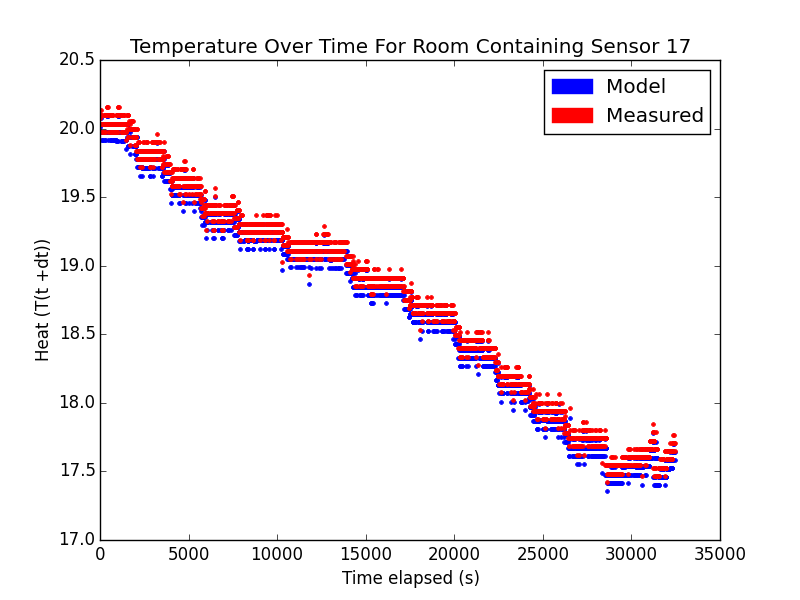
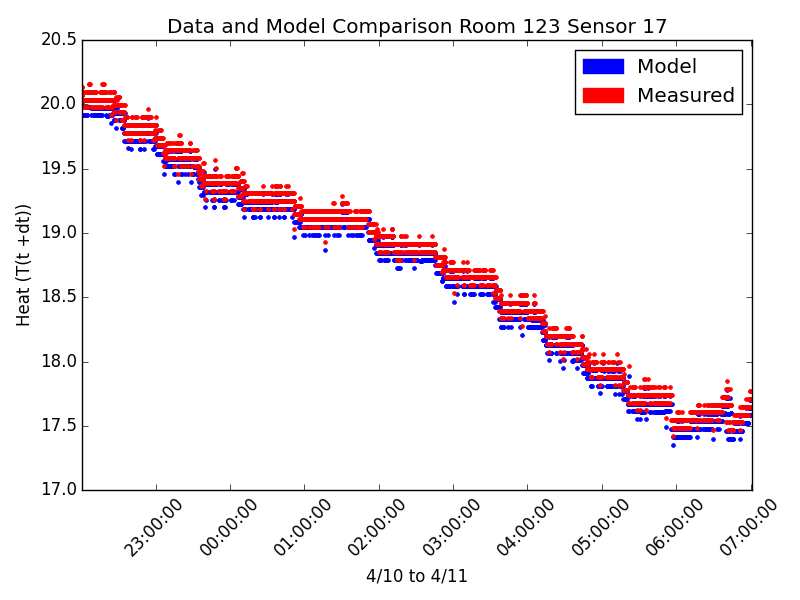
Plot displays proper time interval

Changed region(s): [[0.0, 0.03, 0.9688, 0.99]]

diff --git a/output.py b/output.py
@@ -5,6 +5,27 @@
 from matplotlib import pyplot as p
 from matplotlib import patches
 from model import get_b_tau
+import datetime
+rooms ={}
+rooms['1'] = '211'
+rooms['2'] = '222'
+rooms['12'] = '216'
+rooms['15'] = '222'
+rooms['18'] = '203'
+rooms['6'] = '212'
+rooms['4']  = '162'
+rooms['8'] = '162'
+rooms['13'] = '146'
+rooms['16'] = '176'
+rooms['10'] = '164'
+rooms['19'] = '170'
+rooms['9'] = '141'
+rooms['3'] = '137A'
+rooms['14'] = '137'
+rooms['5'] = '132'
+rooms['11'] = '121'
+rooms['7'] = '125'
+rooms['17'] = '123'
 
 
 def print_tau(room_num, tau):
@@ -31,7 +52,7 @@ def print_b_tau(rooms):
     print 'Building  | Tau: %d' % (get_b_tau(rooms))
 
 
-def plot_model(room_num, time, calculated, actual):
+def plot_model(room_num, time, calculated, actual, start, end):
     """
     plots heat vs time for both the actual data, as well as the calculated heat from our model and saves it to
     file name plot<room_num>.png
@@ -40,13 +61,16 @@ def plot_model(room_num, time, calculated, actual):
     :param actual: list of actual heat values
     :return:
     """
+    sens_num = rooms[str(room_num)]
     p.cla()
     p.plot(time, calculated, 'b.')
     p.plot(time, actual, 'r.')
     model = patches.Patch(color='blue', label='Model')
     measured = patches.Patch(color='red', label='Measured')
     p.legend([model, measured], ['Model', 'Measured'])
-    p.xlabel('Time elapsed (s)')
+    p.xticks(rotation=45)
+    p.xlabel('%s/%s to %s/%s' % (start.month,start.day,end.month,end.day))
     p.ylabel('Heat (T(t +dt))')
-    p.title('Temperature Over Time For Room Containing Sensor ' + room_num)
+    p.title("Data and Model Comparison Room %s Sensor %s" %(sens_num, room_num))
+    p.tight_layout()
     p.savefig('plot%s.png' % room_num)

diff --git a/main.py b/main.py
@@ -2,7 +2,7 @@ import file_reader
 import room
 from model import infer_tau, update_heat
 from output import plot_model, print_tau, print_b_tau
-
+import datetime
 
 def main():
     # load the data slice we want to use for determining tau
@@ -33,9 +33,12 @@ def main():
         # any given time value
         t = 0
         tau = infer_tau(r)
-
+        start =  r.temps[0][0]
+        dateTime = []
         for temp in r.temps:
             t += 10
+            end = start+datetime.timedelta(0,t)
+            dateTime.append(end)
             time_steps.append(t)
             heat = update_heat(dt, tau, temp[1], temp[2])
             calculated_heat_values.append(heat)
@@ -43,7 +46,7 @@ def main():
 
         print_tau(r.room_num, tau)
         # IF MATPLOTLIB NOT INSTALLED, COMMENT OUT line below
-        # plot_model(r.room_num, time_steps, calculated_heat_values, actual_heat_values)
+        plot_model(r.room_num,dateTime, calculated_heat_values, actual_heat_values, start, end)
     # print tau for the building
     print_b_tau(building_rooms) 
 

diff --git a/gen_plot.py b/gen_plot.py
@@ -7,7 +7,7 @@ import file_reader
 import room
 from model import *
 
-temp_data = file_reader.read('night.csv')
+temp_data = file_reader.read('new_temps.csv')
 rooms = []
 
 for x in temp_data:
